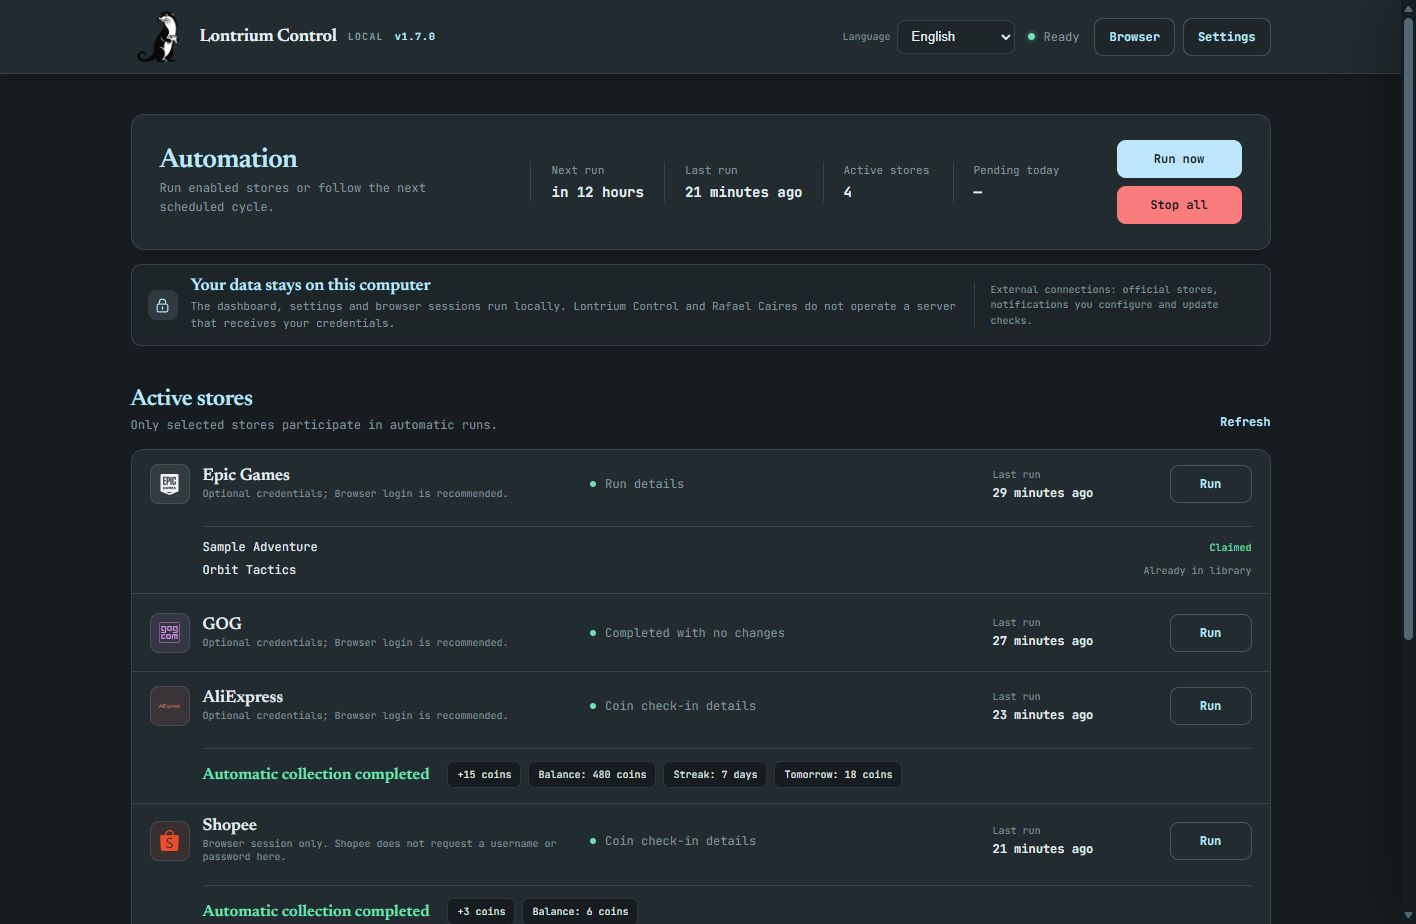
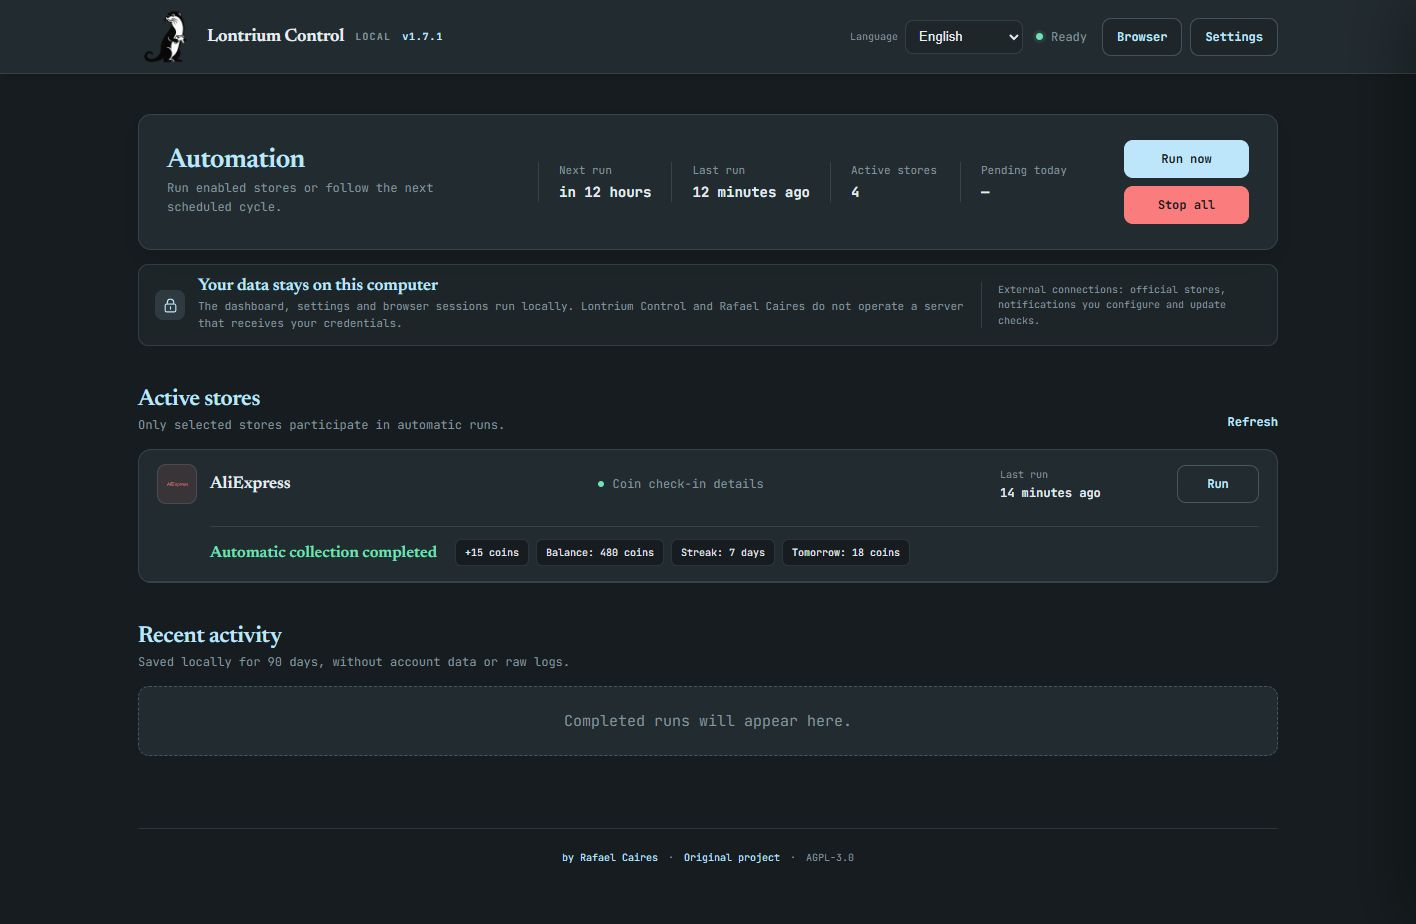
fix: polish v1.7.1 settings login flow

diff --git a/src/gui/static/app.css b/src/gui/static/app.css
@@ -351,9 +351,10 @@ h1, h2, h3, .brand-name, .store-name {
 .settings-nav-item .store-icon { width: 25px; height: 25px; flex: 0 0 25px; border-radius: 7px; }
 .settings-nav-item .store-logo { width: 16px; height: 16px; }
 .settings-nav-symbol { width: 25px; height: 25px; flex: 0 0 25px; display: grid; place-items: center; color: var(--accent); background: var(--accent-soft); border: 1px solid var(--line); border-radius: 7px; font-size: 14px; }
-.settings-content { min-width: 0; overflow-y: auto; padding: 28px 32px 36px; }
+.settings-content { min-width: 0; overflow-y: auto; overflow-x: hidden; padding: 28px 32px 36px; container-type: inline-size; container-name: settings-content; }
 .settings-panel-header { margin-bottom: 24px; padding-bottom: 18px; border-bottom: 1px solid var(--line); }
-.settings-panel-header h3 { font-size: 25px; }
+.settings-panel-header h3 { font-size: 25px; overflow-wrap: anywhere; }
+.settings-panel-header p { overflow-wrap: anywhere; }
 .settings-panel[hidden] { display: none; }
 .settings-version { display: block; margin-top: 4px; color: var(--accent); font-size: 10px; letter-spacing: .05em; }
 .settings-introduction { max-width: 680px; padding: 24px; background: var(--view); border: 1px solid var(--line); border-radius: 12px; }
@@ -371,16 +372,21 @@ h1, h2, h3, .brand-name, .store-name {
 .advanced-credentials { margin-top: 18px; padding: 15px; background: var(--view); border: 1px solid var(--line); border-radius: 10px; }
 .advanced-credentials summary { color: var(--text-soft); font-size: 11px; font-weight: 700; cursor: pointer; }
 .advanced-credentials p { margin: 10px 0 15px; color: var(--muted); font-size: 10px; line-height: 1.5; }
-.settings-auth-note { margin: 0 0 18px; padding: 12px 14px; color: var(--text); background: var(--accent-soft); border-left: 3px solid var(--accent); border-radius: 7px; font-size: 11px; line-height: 1.5; }
+.store-login-card { display: flex; align-items: center; justify-content: space-between; gap: 14px; margin: 0 0 18px; padding: 13px 14px; color: var(--text); background: var(--accent-soft); border-left: 3px solid var(--accent); border-radius: 7px; }
+.store-login-card p { min-width: 0; margin: 0; color: var(--text); font-size: 11px; line-height: 1.5; overflow-wrap: anywhere; }
+.store-login-button { flex: 0 0 auto; white-space: nowrap; }
 .field-grid { display: grid; grid-template-columns: repeat(2, minmax(0, 1fr)); gap: 17px; align-items: start; }
+.field-grid > * { min-width: 0; }
 .field { display: flex; flex-direction: column; gap: 7px; }
-.field label { color: var(--text-soft); font-size: 11px; font-weight: 650; }
+.field label { min-width: 0; color: var(--text-soft); font-size: 11px; font-weight: 650; overflow-wrap: anywhere; }
+.field label span { min-width: 0; overflow-wrap: anywhere; }
 .field input[type="text"], .field input[type="password"], .field input[type="number"] { width: 100%; min-height: 42px; color: var(--text); background: var(--view); border: 1px solid var(--line-strong); border-radius: 9px; padding: 10px 12px; outline: none; }
 .field input:hover { border-color: rgba(189, 230, 251, .34); }
 .field input:focus { border-color: var(--accent); box-shadow: 0 0 0 3px var(--accent-soft); }
 .field small { color: var(--muted); font-size: 10px; line-height: 1.5; }
-.check-row { min-height: 48px; display: flex; align-items: center; gap: 10px; padding: 0 13px; color: var(--text); background: var(--view); border: 1px solid var(--line); border-radius: 9px; font-size: 11px; }
+.check-row { min-width: 0; min-height: 48px; display: flex; align-items: center; gap: 10px; padding: 0 13px; color: var(--text); background: var(--view); border: 1px solid var(--line); border-radius: 9px; font-size: 11px; }
 .check-row input { width: 16px; height: 16px; accent-color: var(--accent); }
+.check-row label { min-width: 0; flex: 1; overflow-wrap: anywhere; line-height: 1.45; }
 .configured { color: var(--success); }
 .store-settings-list { overflow: hidden; background: var(--view); border: 1px solid var(--line); border-radius: 11px; }
 .store-setting-row { min-height: 58px; display: flex; align-items: center; gap: 12px; padding: 8px 13px; border-bottom: 1px solid var(--line); cursor: pointer; }
@@ -468,6 +474,7 @@ h1, h2, h3, .brand-name, .store-name {
 .help-group:focus-within .help-tooltip,
 .help-group.open .help-tooltip { visibility: visible; opacity: 1; }
 .field-grid .field:nth-child(even) .help-tooltip { right: 25px; left: auto; }
+.field-grid > :nth-child(even) .help-tooltip { right: 25px; left: auto; }
 
 .onboarding {
   position: fixed;
@@ -551,6 +558,12 @@ h1, h2, h3, .brand-name, .store-name {
 .schedule-time-row input[type="time"] { flex: 1; min-height: 42px; padding: 0 12px; color: var(--text); color-scheme: dark; background: var(--view); border: 1px solid var(--line); border-radius: 8px; }
 .remove-time-btn { flex: 0 0 auto; width: 42px; height: 42px; padding: 0; display: flex; align-items: center; justify-content: center; font-size: 18px; }
 .add-time-btn { align-self: flex-start; margin-top: 4px; padding: 0 16px; height: 36px; border-radius: 8px; font-weight: 500; }
+
+@container settings-content (max-width: 720px) {
+  .field-grid, .help-grid, .store-catalog { grid-template-columns: 1fr; }
+  .store-login-card { align-items: stretch; flex-direction: column; }
+  .store-login-button { align-self: flex-start; }
+}
 
 @media (max-width: 900px) {
   .run-panel { grid-template-columns: 1fr auto; }

diff --git a/src/gui/static/app.js b/src/gui/static/app.js
@@ -42,7 +42,7 @@ function t(key, params = {}) {
 }
 
 function renderVersion(config = latestConfig) {
-  const version = config?.version || '1.7.0';
+  const version = config?.version || '1.7.1';
   const label = `v${version.replace(/^v/, '')}`;
   const header = document.querySelector('#appVersion');
   const settings = document.querySelector('#settingsVersion');
@@ -211,10 +211,7 @@ function createStoreRow(store, globalRunning, retryPending = false) {
   const title = document.createElement('h3');
   title.className = 'store-name';
   title.textContent = store.name;
-  const key = document.createElement('p');
-  key.className = 'store-key';
-  key.textContent = store.authNoteKey ? t(store.authNoteKey) : store.key;
-  names.append(title, key);
+  names.append(title);
   identity.append(createStoreIcon(store), names);
   const state = document.createElement('div');
   state.className = 'store-state';
@@ -613,7 +610,7 @@ function helpSettingsBody() {
   copy.textContent = t('settings.helpCopy');
   const version = document.createElement('small');
   version.className = 'help-version';
-  version.textContent = `${t('settings.versionLabel')} ${latestConfig?.version || '1.7.0'}`;
+  version.textContent = `${t('settings.versionLabel')} ${latestConfig?.version || '1.7.1'}`;
   intro.append(title, copy, version);
   const cards = document.createElement('div');
   cards.className = 'help-grid';
@@ -641,6 +638,31 @@ function helpSettingsBody() {
   button.addEventListener('click', openOnboardingPreview);
   body.append(intro, cards, button);
   return body;
+}
+
+function openBrowserForStore(store) {
+  const browser = document.querySelector('#vncLink');
+  if (!browser?.href) {
+    showToast(t('storeAuth.browserUnavailable'), true);
+    return;
+  }
+  window.open(browser.href, '_blank', 'noopener,noreferrer');
+  showToast(t('storeAuth.browserOpened', {store: store.name}));
+}
+
+function createStoreLoginCard(store) {
+  const card = document.createElement('div');
+  card.className = 'store-login-card';
+  const copy = document.createElement('p');
+  const inherited = store.authMode === 'inherited';
+  copy.textContent = t(inherited ? 'storeAuth.configureInheritedCopy' : 'storeAuth.configureCopy', {store: store.name});
+  const button = document.createElement('button');
+  button.className = 'button secondary store-login-button';
+  button.type = 'button';
+  button.textContent = t(inherited ? 'storeAuth.configureInherited' : 'storeAuth.configure');
+  button.addEventListener('click', () => openBrowserForStore(store));
+  card.append(copy, button);
+  return card;
 }
 
 function introductionSettingsBody() {
@@ -703,12 +725,7 @@ function renderSettings(config) {
     }
     const storeKey = sectionKey.replace('section.', '');
     const store = latestStatus?.stores.find(item => item.key === storeKey);
-    if (store?.authNoteKey) {
-      const authNote = document.createElement('p');
-      authNote.className = 'settings-auth-note';
-      authNote.textContent = t(store.authNoteKey);
-      sectionBody.prepend(authNote);
-    }
+    if (store) sectionBody.prepend(createStoreLoginCard(store));
     panels.push(createSettingsPanel(sectionKey, sectionBody));
   }
   document.querySelector('#settingsContent').replaceChildren(...panels);

diff --git a/src/gui/static/index.html b/src/gui/static/index.html
@@ -15,7 +15,7 @@
         <img class="brand-logo" src="/assets/icons/lontrium.png" alt="">
         <span class="brand-name" data-i18n="app.title">Lontrium Control</span>
         <span class="local-label" data-i18n="app.local">LOCAL</span>
-        <span class="app-version" id="appVersion">v1.7.0</span>
+        <span class="app-version" id="appVersion">v1.7.1</span>
       </a>
       <div class="header-actions">
         <label class="language-control" for="languageSelect">
@@ -78,7 +78,7 @@
 
   <div class="drawer-backdrop" id="drawerBackdrop" hidden></div>
   <aside class="drawer" id="settingsDrawer" aria-hidden="true" data-i18n-aria-label="settings.title">
-    <header class="drawer-header"><div class="drawer-title"><img class="settings-mascot" src="/assets/icons/lontrium.png" alt="Lontrium, the otter mascot"><div><h2 data-i18n="settings.title">Settings</h2><p data-i18n="settings.copy">Accounts, scheduling and module behavior.</p><small class="settings-version"><span data-i18n="settings.versionLabel">Version</span> <span id="settingsVersion">v1.7.0</span></small></div></div><button class="close-button" id="closeSettings" type="button" data-i18n-aria-label="common.close">×</button></header>
+    <header class="drawer-header"><div class="drawer-title"><img class="settings-mascot" src="/assets/icons/lontrium.png" alt="Lontrium, the otter mascot"><div><h2 data-i18n="settings.title">Settings</h2><p data-i18n="settings.copy">Accounts, scheduling and module behavior.</p><small class="settings-version"><span data-i18n="settings.versionLabel">Version</span> <span id="settingsVersion">v1.7.1</span></small></div></div><button class="close-button" id="closeSettings" type="button" data-i18n-aria-label="common.close">×</button></header>
     <form id="settingsForm"><div class="settings-body"><nav class="settings-nav" id="settingsNav" data-i18n-aria-label="settings.title"></nav><div class="settings-content" id="settingsContent"></div></div><footer class="drawer-footer"><div class="drawer-notes"><p><strong data-i18n="settings.storageTitle">Local storage:</strong> <span data-i18n="settings.storageCopy">your accounts and preferences remain on this computer.</span></p><p data-i18n="settings.blankSecret">Leave a secret field blank to keep its current value.</p></div><button class="button primary" type="submit" data-i18n="common.save">Save</button></footer></form>
   </aside>
 

diff --git a/scripts/visual_smoke.py b/scripts/visual_smoke.py
@@ -8,7 +8,11 @@ import os
 import nodriver as uc
 
 
-URL = os.environ.get("CLAIMER_PREVIEW_URL", "http://host.docker.internal:8765")
+URL = os.environ.get("CLAIMER_PREVIEW_URL", "http://127.0.0.1:8765")
+EDGE = os.environ.get(
+    "LONTRIUM_BROWSER_PATH",
+    r"C:\Program Files (x86)\Microsoft\Edge\Application\msedge.exe",
+)
 LOCALES = ("en", "pt-BR", "es")
 
 
@@ -77,6 +81,18 @@ async def check_settings_navigation(page) -> None:
     assert result["items"] == result["icons"]
     assert result["storeLogos"] > 0
     assert result["fits"]
+    await click(page, '.settings-nav-item[data-section="section.epic"]')
+    store_section = json.loads(await page.evaluate("""
+      JSON.stringify({
+        loginButtons: document.querySelectorAll('.store-login-button').length,
+        versionText: document.querySelector('#settingsDrawer').textContent,
+        contentFits: document.querySelector('.settings-content').scrollWidth <=
+          document.querySelector('.settings-content').clientWidth
+      })
+    """))
+    assert store_section["loginButtons"] >= 1
+    assert "{version}" not in store_section["versionText"]
+    assert store_section["contentFits"]
     await click(page, '.settings-nav-item[data-section="section.help"]')
     await click(page, ".help-panel .button")
     preview = json.loads(await page.evaluate("""
@@ -94,6 +110,7 @@ async def main() -> None:
     for viewport in ("1440,900", "390,844"):
         browser = await uc.start(
             headless=True,
+            browser_executable_path=EDGE,
             browser_args=[f"--window-size={viewport}", "--force-device-scale-factor=1"],
         )
         try:

diff --git a/tests/test_gui.py b/tests/test_gui.py
@@ -238,7 +238,7 @@ def test_secret_values_are_never_returned(monkeypatch):
     assert "AE_PASSWORD" not in payload["values"]
     assert payload["configured"]["AE_EMAIL"] is True
     assert payload["configured"]["AE_PASSWORD"] is True
-    assert payload["version"] == "1.7.0"
+    assert payload["version"] == "1.7.1"
     assert "private@example.invalid" not in json.dumps(payload)
     assert "do-not-return" not in json.dumps(payload)
 

diff --git a/scripts/preview_dashboard.py b/scripts/preview_dashboard.py
@@ -116,7 +116,7 @@ async def main() -> None:
             "values": values,
             "configured": {spec.key: False for spec in SPECS if spec.secret},
             "setup": {"required": True, "complete": False},
-            "version": "1.7.0",
+            "version": "1.7.1",
         }
 
     async def history(_limit: int, _run_id: str | None) -> dict:

diff --git a/src/version.py b/src/version.py
@@ -1,6 +1,6 @@
 """Version and attribution information for Lontrium Control."""
 
-__version__ = "1.7.0"
+__version__ = "1.7.1"
 __product__ = "Lontrium Control"
 __author__ = "Paweł Adamiec"
 __maintainer__ = "Rafael Caires"

diff --git a/CHANGELOG.md b/CHANGELOG.md
@@ -3,6 +3,18 @@
 All notable changes to this project will be documented in this file.
 Format based on [Keep a Changelog](https://keepachangelog.com/).
 
+## [1.7.1] - 2026-10-24
+
+### Changed
+- Settings now adapts to the available panel width, wraps long labels and avoids horizontal clipping on narrow windows.
+- Dashboard store rows focus on the result; authentication guidance is kept inside each store's Settings section.
+- Every selected store now offers a clear **Configure login in Browser** action, with optional autofill fields kept in the advanced area.
+- Brazilian Portuguese translations restore accents in Help, tooltips and Settings descriptions.
+
+### Fixed
+- Removed the literal `{version}` placeholder from the Settings version label.
+- Fixed tooltip alignment and long notification labels that could point outside the visible panel.
+
 ## [1.7.0] - 2026-10-23
 
 ### Added

diff --git a/README.md b/README.md
@@ -27,7 +27,7 @@
 </p>
 
 > [!NOTE]
-> **Lontrium Control v1.7.0 is the current release.** Download the installer above and verify it with [`SHA256SUMS.txt`](https://github.com/rafaelcairess/lontrium/releases/latest/download/SHA256SUMS.txt).
+> **Lontrium Control v1.7.1 is the current release.** Download the installer above and verify it with [`SHA256SUMS.txt`](https://github.com/rafaelcairess/lontrium/releases/latest/download/SHA256SUMS.txt).
 
 <p align="center">
   <img src="docs/images/05-dashboard.png" alt="Lontrium Control dashboard showing game, AliExpress and Shopee results" width="1100">

diff --git a/docs/README.es.md b/docs/README.es.md
@@ -27,7 +27,7 @@
 </p>
 
 > [!NOTE]
-> **Lontrium Control v1.7.0 es la versión actual.** Descarga el instalador de arriba y verifícalo con [`SHA256SUMS.txt`](https://github.com/rafaelcairess/lontrium/releases/latest/download/SHA256SUMS.txt).
+> **Lontrium Control v1.7.1 es la versión actual.** Descarga el instalador de arriba y verifícalo con [`SHA256SUMS.txt`](https://github.com/rafaelcairess/lontrium/releases/latest/download/SHA256SUMS.txt).
 
 <p align="center">
   <img src="images/05-dashboard.png" alt="Panel de Lontrium Control con resultados de juegos, AliExpress y Shopee" width="1100">

diff --git a/docs/README.pt-BR.md b/docs/README.pt-BR.md
@@ -27,7 +27,7 @@
 </p>
 
 > [!NOTE]
-> **O Lontrium Control v1.7.0 é a versão atual.** Baixe o instalador acima e confira o arquivo [`SHA256SUMS.txt`](https://github.com/rafaelcairess/lontrium/releases/latest/download/SHA256SUMS.txt).
+> **O Lontrium Control v1.7.1 é a versão atual.** Baixe o instalador acima e confira o arquivo [`SHA256SUMS.txt`](https://github.com/rafaelcairess/lontrium/releases/latest/download/SHA256SUMS.txt).
 
 <p align="center">
   <img src="images/05-dashboard.png" alt="Painel do Lontrium Control mostrando jogos e resultados do AliExpress e da Shopee" width="1100">
